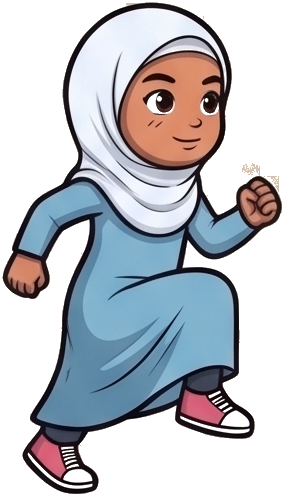
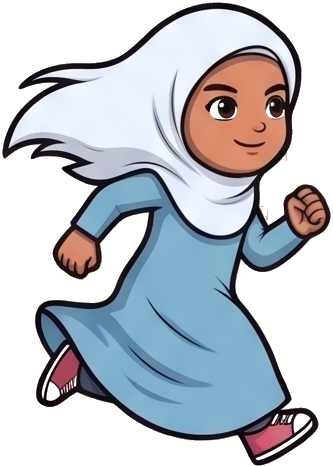
Drop inconsistent frame from hijab run cycle
One of the 5 extracted frames was a much more upright, stride-less
pose (the sheet's own art was inconsistent there), which broke up the
running motion into "straight then leaning" every cycle. Dropping it
leaves 4 frames that all share the same forward lean and stride depth.

diff --git a/index.html b/index.html
@@ -215,7 +215,7 @@ const GROUND_DEPTH = 600; // deep enough to fill below the ground on any screen 
 
 // Bump this whenever an image/sound asset file changes - it's appended as a query string so
 // browsers (mobile Safari especially) can't serve a stale cached copy of the updated file.
-const ASSET_VERSION = 6;
+const ASSET_VERSION = 7;
 
 // ---- Sounds (Kenney "Interface Sounds" & "Music Jingles" packs, CC0 - assets/sounds/) ----
 function loadSound(src) {
@@ -289,7 +289,7 @@ const sprites = {
 // assets/main-character*.png source sheets). Both sets are preloaded up front - they're
 // small images - so switching outfits is instant with no load flash.
 const OUTFITS = ['casual', 'hijab'];
-const RUN_FRAME_COUNT = { casual: 6, hijab: 5 };
+const RUN_FRAME_COUNT = { casual: 6, hijab: 4 };
 const charSpriteSets = {};
 for (const outfit of OUTFITS) {
   charSpriteSets[outfit] = {

diff --git a/sw.js b/sw.js
@@ -1,6 +1,6 @@
-const CACHE_NAME = 'platformer-cache-v2';
+const CACHE_NAME = 'platformer-cache-v3';
 
-const ASSET_VERSION = 6;
+const ASSET_VERSION = 7;
 const v = (path) => `${path}?v=${ASSET_VERSION}`;
 
 const PRECACHE_URLS = [
@@ -40,7 +40,6 @@ const PRECACHE_URLS = [
   v('assets/character/hijab/run_frames/run2.png'),
   v('assets/character/hijab/run_frames/run3.png'),
   v('assets/character/hijab/run_frames/run4.png'),
-  v('assets/character/hijab/run_frames/run5.png'),
   v('assets/character/hijab/jump.png'),
   v('assets/character/hijab/doublejump.png'),
   v('assets/character/hijab/attack.png'),
